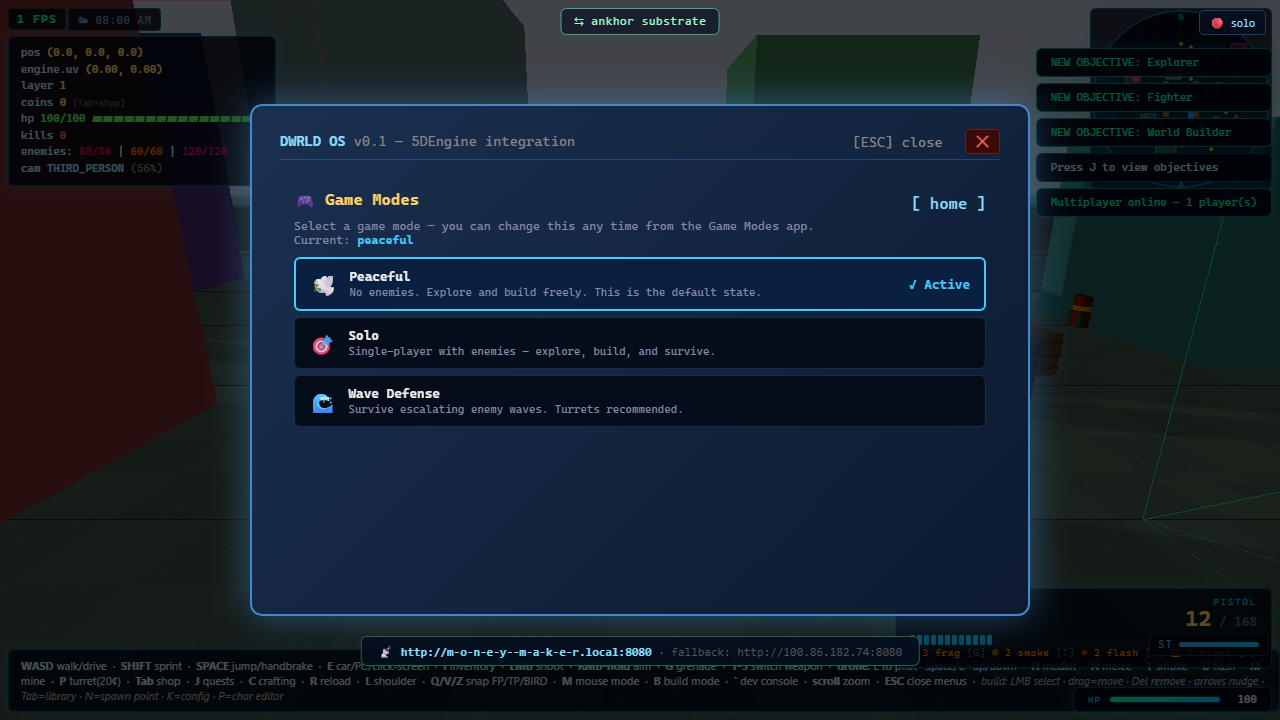
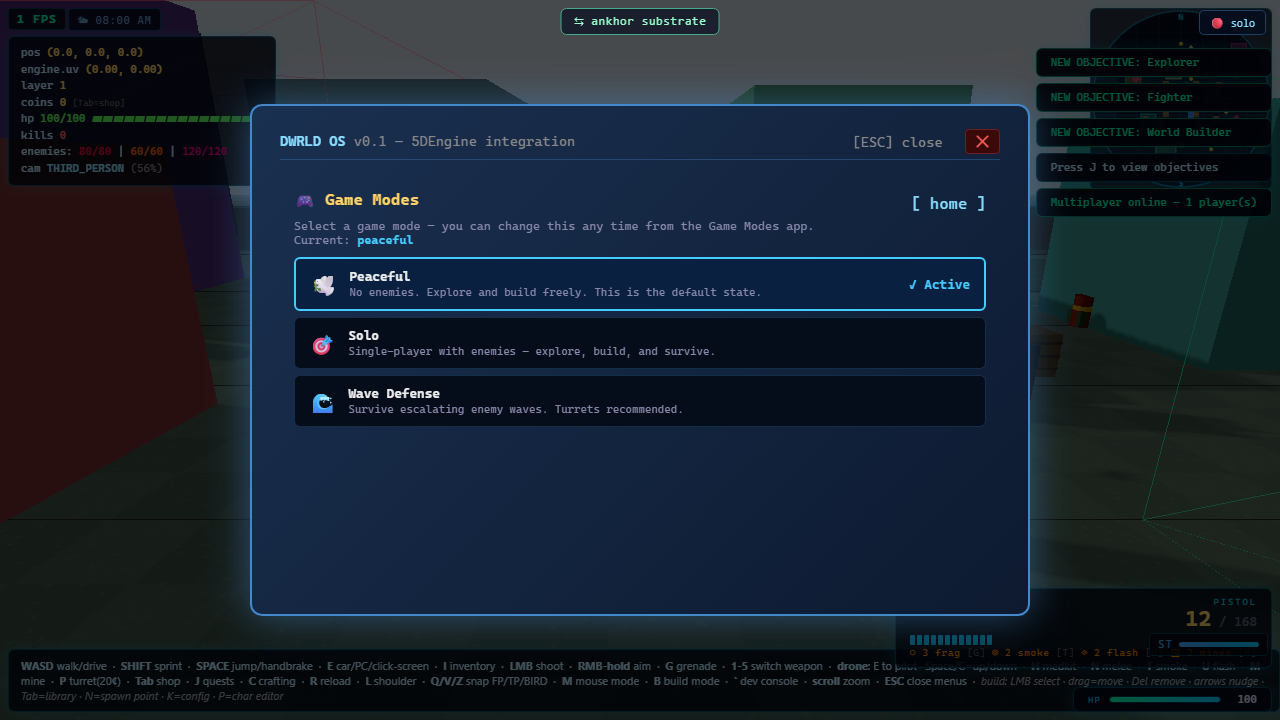
iter 1018: buildings from game.html — 9 colored buildings at exact world positions

diff --git a/src/ankhor/env_adapter.js b/src/ankhor/env_adapter.js
@@ -37,6 +37,19 @@ function makeGroundTexture(size = 256) {
 }
 
 function buildEnvironment(scene) {
+  // Building definitions — from world_data.js
+  const buildings = [
+    { id: "shop",    color: 0xff6b6b, u0:  10, v0:  -4, u1:  16, v1:   4 },
+    { id: "tower",   color: 0x4ecdc4, u0: -16, v0:   6, u1: -10, v1:  12 },
+    { id: "house",   color: 0xffe66d, u0:  -6, v0: -14, u1:   0, v1:  -8 },
+    { id: "garage",  color: 0xa8dadc, u0:   6, v0:  10, u1:  12, v1:  16 },
+    { id: "diner",   color: 0xff9f1c, u0: -22, v0: -12, u1: -16, v1:  -6 },
+    { id: "server_room", color: 0x1a3a5c, u0: -38, v0:  -8, u1: -26, v1:   8 },
+    { id: "bank",    color: 0x9b5de5, u0:  18, v0:  12, u1:  24, v1:  18 },
+    { id: "park",    color: 0x80ed99, u0: -10, v0:  18, u1:  -2, v1:  26 },
+    { id: "studio",  color: 0xf72585, u0:  20, v0: -22, u1:  26, v1: -14 },
+  ];
+
   // Ground
   const groundMat = new THREE.MeshStandardMaterial({ map: makeGroundTexture(), roughness: 0.95 });
   const ground = new THREE.Mesh(new THREE.PlaneGeometry(200, 200), groundMat);
@@ -82,6 +95,23 @@ function buildEnvironment(scene) {
   sun.position.set(5, 10, 5);
   sun.name = "sun";
   scene.add(sun);
+
+  // Buildings — exact code from game.html mountEnvironment
+  for (const bldg of buildings) {
+    const { u0, v0, u1, v1 } = bldg;
+    const w = u1 - u0, d = v1 - v0;
+    const h = 4 + Math.random() * 6;
+    const mesh = new THREE.Mesh(
+      new THREE.BoxGeometry(w, h, d),
+      new THREE.MeshStandardMaterial({ color: bldg.color })
+    );
+    mesh.position.set((u0 + u1) / 2, h / 2, (v0 + v1) / 2);
+    mesh.castShadow = true;
+    mesh.receiveShadow = true;
+    mesh.userData.id = bldg.id;
+    mesh.name = "building-" + bldg.id;
+    scene.add(mesh);
+  }
 
   window._scene = scene;
 }